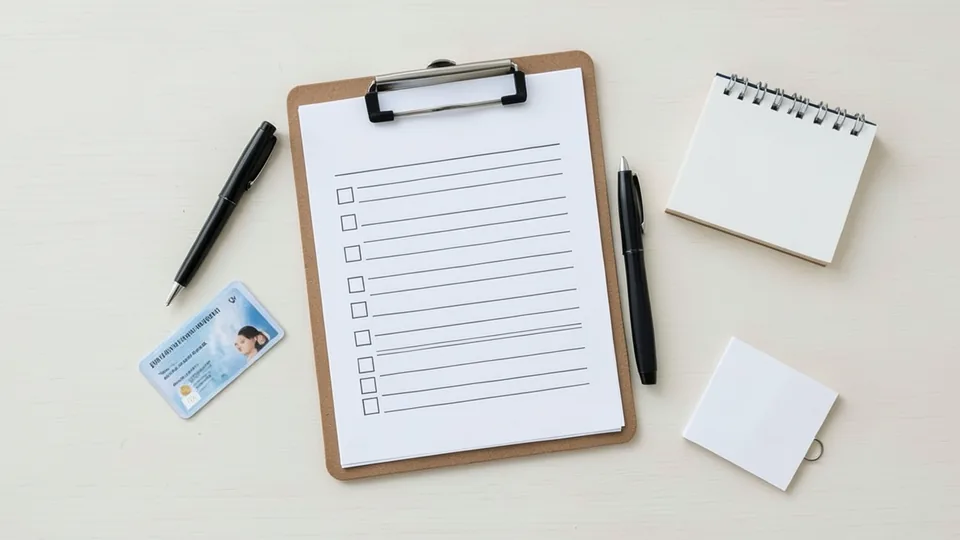
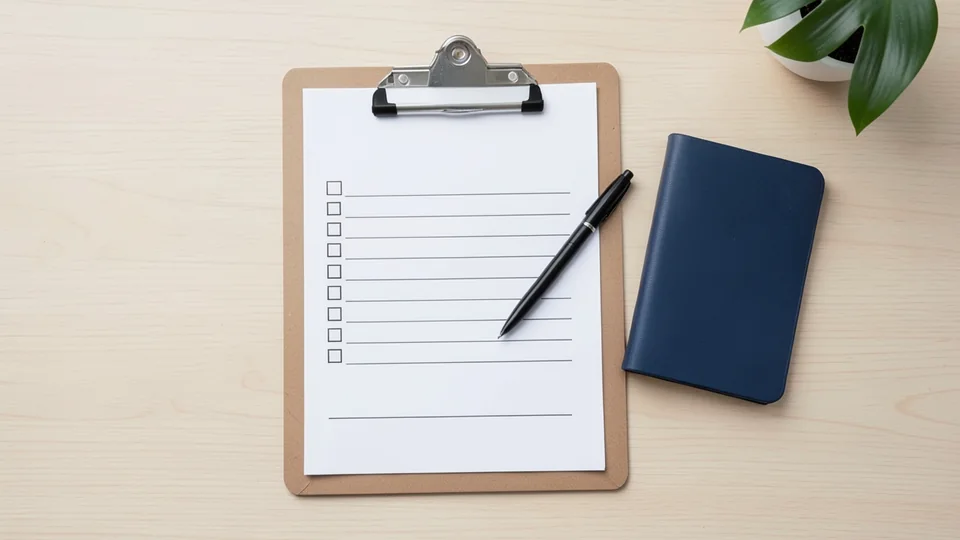
Titelbilder Modul 2, 7, 8 verbessert: echte Instrumente und echtes Ohr aus dem Kursbuch
Claude-Session: https://claude.ai/code/session_01LfH8cq6D4HhundCD4VVHJz

diff --git a/kurs-prototyp/inhalte/bilder-ki.js b/kurs-prototyp/inhalte/bilder-ki.js
@@ -14,7 +14,7 @@ KURS.titelbilder = {
 "src": "inhalte/bilder/2.webp",
 "w": 960,
 "h": 540,
-"alt": "Klemmbrett mit Einverständnisformular, Kugelschreiber, Ausweis und Notizblock",
+"alt": "Klemmbrett mit leerem Einverständnisformular und Unterschriftszeile, Kugelschreiber und Ausweisheft",
 "ki": "FLUX.2 [klein] 4B über Cloudflare Workers AI"
 },
 "3": {
@@ -49,14 +49,14 @@ KURS.titelbilder = {
 "src": "inhalte/bilder/7.webp",
 "w": 960,
 "h": 540,
-"alt": "Instrumententablett mit Piercingzangen auf steriler Abdeckung",
+"alt": "Piercingzange, Braunüle, Nadelauffangrohr und Kugelgreifer auf steriler Abdeckung",
 "ki": "FLUX.2 [klein] 4B über Cloudflare Workers AI"
 },
 "8": {
 "src": "inhalte/bilder/8.webp",
 "w": 960,
 "h": 540,
-"alt": "Übungsohr aus Kunststoff mit mehreren kleinen Kugelsteckern",
+"alt": "Ohr mit vier Kugelsteckern: Lobe, Upper Lobe, Tragus und Helix",
 "ki": "FLUX.2 [klein] 4B über Cloudflare Workers AI"
 },
 "9": {

diff --git a/KURS-RECHERCHE.md b/KURS-RECHERCHE.md
@@ -218,13 +218,13 @@ Stil-Zusatz zu jeder Beschreibung: „Editorial photography for a premium profes
 | Modul | Stand | Bildbeschreibung (englisch) |
 | --- | --- | --- |
 | 01 | eingebaut (neu 26.10.2026), FLUX.2 [klein] 4B über Cloudflare Workers AI (mit Referenzbild: Schmuckzeichnungen aus dem Kurs bzw. Instrumentenfotos aus dem Kursbuch) | A calm professional body piercing studio workstation from above: on a sterile blue drape a stainless steel kidney dish holding one titanium labret stud and one ball closure ring, beside it a sealed sterile pouch, a white skin marker pen and a folded pair of black nitrile gloves. |
-| 02 | eingebaut (neu 26.10.2026), FLUX.2 [klein] 4B über Cloudflare Workers AI | Top-down view of a light desk: a clipboard with a blank consent form made only of empty lines and empty checkboxes, a black pen, a generic plastic identity card lying face down, a small desk calendar without numbers. |
+| 02 | eingebaut (neu 26.10.2026), FLUX.2 [klein] 4B über Cloudflare Workers AI; ohne Ausweis mit Gesicht | Top-down view of a light wooden studio desk: a clipboard with a blank consent form (empty lines, checkboxes, signature line), a black pen, a closed dark blue booklet face down, a plant leaf. |
 | 03 | eingebaut (neu 26.10.2026), FLUX.2 [klein] 4B über Cloudflare Workers AI | A white plastic medical anatomical model of a human ear, showing helix, antihelix, tragus and earlobe, standing on a clean white desk next to a medical skin layer cross-section model block showing epidermis, dermis and fatty tissue, soft light. |
 | 04 | eingebaut (neu 26.10.2026), FLUX.2 [klein] 4B über Cloudflare Workers AI | Still life on a sterile blue drape: a stainless steel bowl filled with ice cubes, a plain white unlabeled cooling spray can, and a small plain white unlabeled ointment tube, cool soft light. |
 | 05 | eingebaut (neu 26.10.2026), FLUX.2 [klein] 4B über Cloudflare Workers AI | A white benchtop steam autoclave sterilizer with its door slightly open in a clean studio, next to it a neat stack of sealed paper and plastic sterilization pouches with color indicator strips, a wall-mounted hand disinfectant dispenser. |
 | 06 | eingebaut (neu 26.10.2026), FLUX.2 [klein] 4B über Cloudflare Workers AI (mit Referenzbild: Schmuckzeichnungen aus dem Kurs bzw. Instrumentenfotos aus dem Kursbuch) | Close-up product photo on matte light grey stone, exactly four pieces of polished titanium body jewelry in one row with generous spacing, nothing touching: one perfectly straight barbell with a ball on each end, one evenly curved barbell (a smooth simple arc) with a ball on each end, one labret stud with a flat round disc on one end and a ball on the other, one ball closure ring with its ball. All posts smooth and straight or evenly curved, no bends, no hooks. |
-| 07 | eingebaut (neu 26.10.2026), FLUX.2 [klein] 4B über Cloudflare Workers AI (mit Referenzbild: Schmuckzeichnungen aus dem Kurs bzw. Instrumentenfotos aus dem Kursbuch) | Overhead photo of a stainless steel instrument tray on a sterile blue drape with these real piercing instruments exactly like the reference images, neatly spaced: the piercing forceps from image 1, the ball grabber pliers from image 2 and the receiving tube from image 3. |
-| 08 | eingebaut (neu 26.10.2026), FLUX.2 [klein] 4B über Cloudflare Workers AI | A white plastic medical anatomical model of a human ear standing alone on a clean white desk, showing helix, antihelix, tragus and earlobe, with three tiny simple silver piercing studs: one small round ball stud in the earlobe, one small round ball stud in the upper outer rim, one small round ball stud in the tragus. Only the plastic ear model, no head, no person, soft light. |
+| 07 | eingebaut (neu 26.10.2026): Montage aus echten Instrumentenfotos des Kursbuchs (Piercingzange S. 65, Braunüle, Nadelauffangrohr, Kugelgreifer), freigestellt und auf eine KI-generierte leere sterile Abdeckung gelegt (FLUX.2 [klein] 4B) | Hintergrund: Top-down photo of an empty sterile light blue surgical drape. Instrumente unverändert aus dem Buch. |
+| 08 | eingebaut (neu 26.10.2026): echtes Ohrfoto aus dem Kursbuch (Datenblatt Lobe, S. 74); Stecker von Helix, Tragus und Upper Lobe aus den Datenblattfotos desselben Ohrs eingesetzt; nur der Hintergrund links und rechts mit FLUX.2 [klein] 4B ergänzt | Extend image 1 into a natural wide photo … keep the ear and the four piercing studs exactly unchanged. |
 | 09 | eingebaut (neu 26.10.2026), FLUX.2 [klein] 4B über Cloudflare Workers AI | Still life on a clean white studio counter: an open first aid kit with bandages, a glass of water, a small pile of glucose tablets, and a clipboard with a blank checklist of empty lines and empty checkboxes. |
 | 10 | eingebaut (neu 26.10.2026), FLUX.2 [klein] 4B über Cloudflare Workers AI | Aftercare still life on a white bathroom shelf: a plain white unlabeled saline spray bottle, a few sealed sterile gauze pads, a cup of chamomile tea, and a small white card with only empty lines, fresh morning light. |
 | 11 | eingebaut (neu 26.10.2026), FLUX.2 [klein] 4B über Cloudflare Workers AI | Wide shot of a newly furnished, empty professional body piercing studio: a padded black treatment couch with white paper roll, a stainless steel side table, a white hand basin with wall dispensers, a benchtop autoclave on a separate counter, bright daylight, a green plant, nobody present. |
